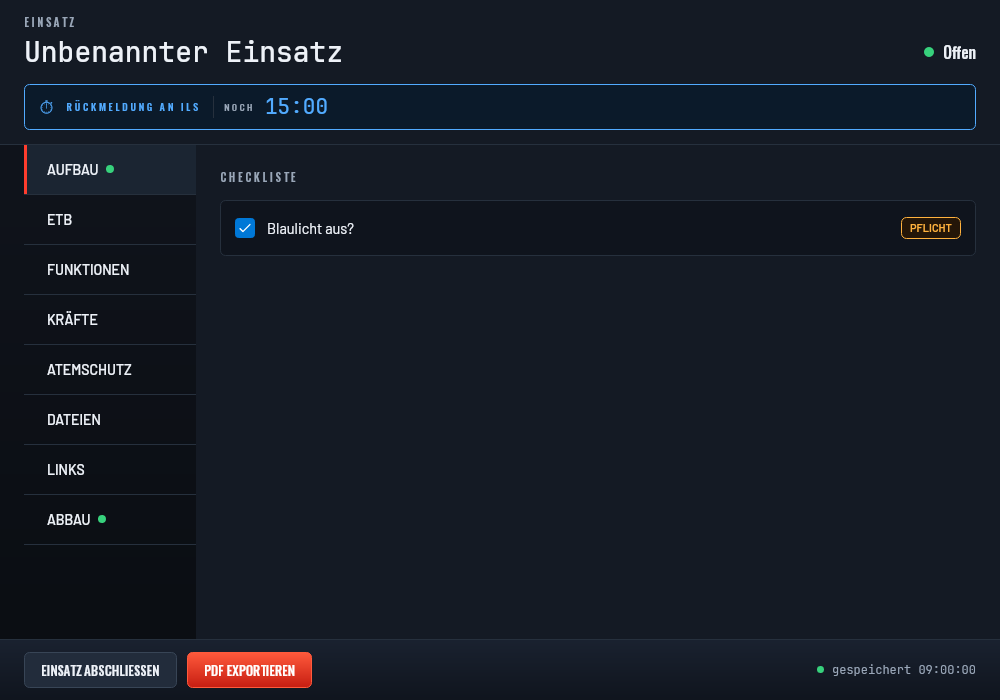
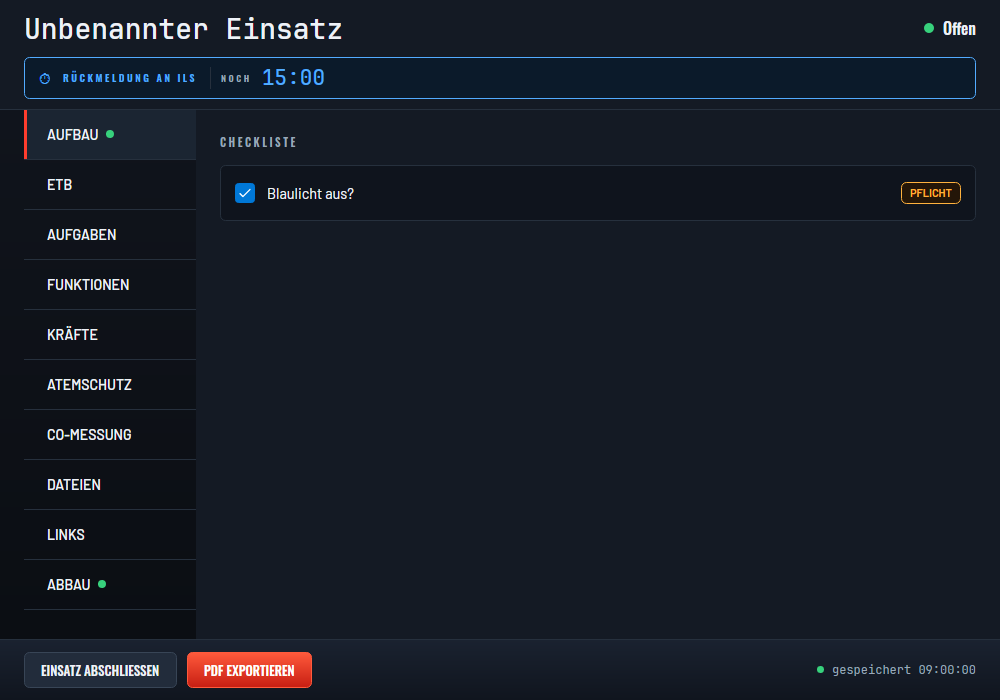
docs: refresh README feature list and screenshots
The Features section was missing the Aufgaben and CO-Messprotokoll
tabs, the incident-wide ILS status reminder, and understated the
Kraefte workflow; the six screenshots predated ~12 UI-relevant
commits (new tabs, field labels, the 3-state SCBA lifecycle,
Stammdaten category cleanup, header chrome). Re-rendered via the
existing Acceptance test suite (no test changes) and reworded the
affected bullets to match current behavior.

diff --git a/README.md b/README.md
@@ -27,13 +27,22 @@ and [QuestPDF](https://www.questpdf.com/) report generation.
 - **ETB** (Einsatztagebuch) — manual entries with incoming/outgoing direction,
   automatic lifecycle logging (open, close, reopen), later editing that keeps a
   full history
-- **Kräfte** — units and crews with status and Bemerkung; Trupps are registered
-  as crews, not individuals
+- **Kräfte** — units added from a Stammdaten Fahrzeug (live-filtered by typed
+  Wache, already-assigned vehicles excluded), Stärke tracked as three numbers
+  and committed as one atomic write plus one ETB entry via an explicit
+  "Übernehmen" action, not per keystroke; Trupps are registered as crews, not
+  individuals
+- **Aufgaben** — task list with urgency/importance, assignee suggestions from
+  call signs, Funktionen and personnel, a spoken due-alarm, and one-click
+  creation straight from an ETB entry
 - **Funktionen** — command roles (EL, Abschnitt, von/bis) with transfer support
   and editable mobile numbers
 - **Atemschutzüberwachung** — SCBA teams with pressure-control interval,
   max-duration countdown, two-stage ILS Rückmeldung reminder with spoken cues
   and a Rückzugsalarm siren
+- **CO-Messprotokoll** — building/floor/apartment search grid with per-dwelling
+  status (not searched / searched / affected), CO ppm value, resident name and
+  key-availability marker, mirroring the real-world door-marking convention
 - **Checklisten** — Aufbau/Abbau checklists from your own master data, mandatory
   items highlighted, completion logged to the ETB
 - **Dateien** — attach photos and PDFs to an incident; they are merged into the
@@ -42,6 +51,11 @@ and [QuestPDF](https://www.questpdf.com/) report generation.
 
 **Beyond a single window:**
 
+- **ILS status reminder** — incident-wide (not per Trupp): fires after a
+  configurable "Erstmeldung nach" interval, then repeats on a configurable
+  "Intervall" with a spoken cue and an ERLEDIGT option; persists across
+  close/reopen/crash and is suppressed on joined/remote clients so the host
+  doesn't double-log
 - **PDF export** — one-click QuestPDF incident report
 - **Multi-device sync** — host an incident on the ELW laptop and follow along
   from other devices over LAN or Tailscale (SignalR); joining requires a share
